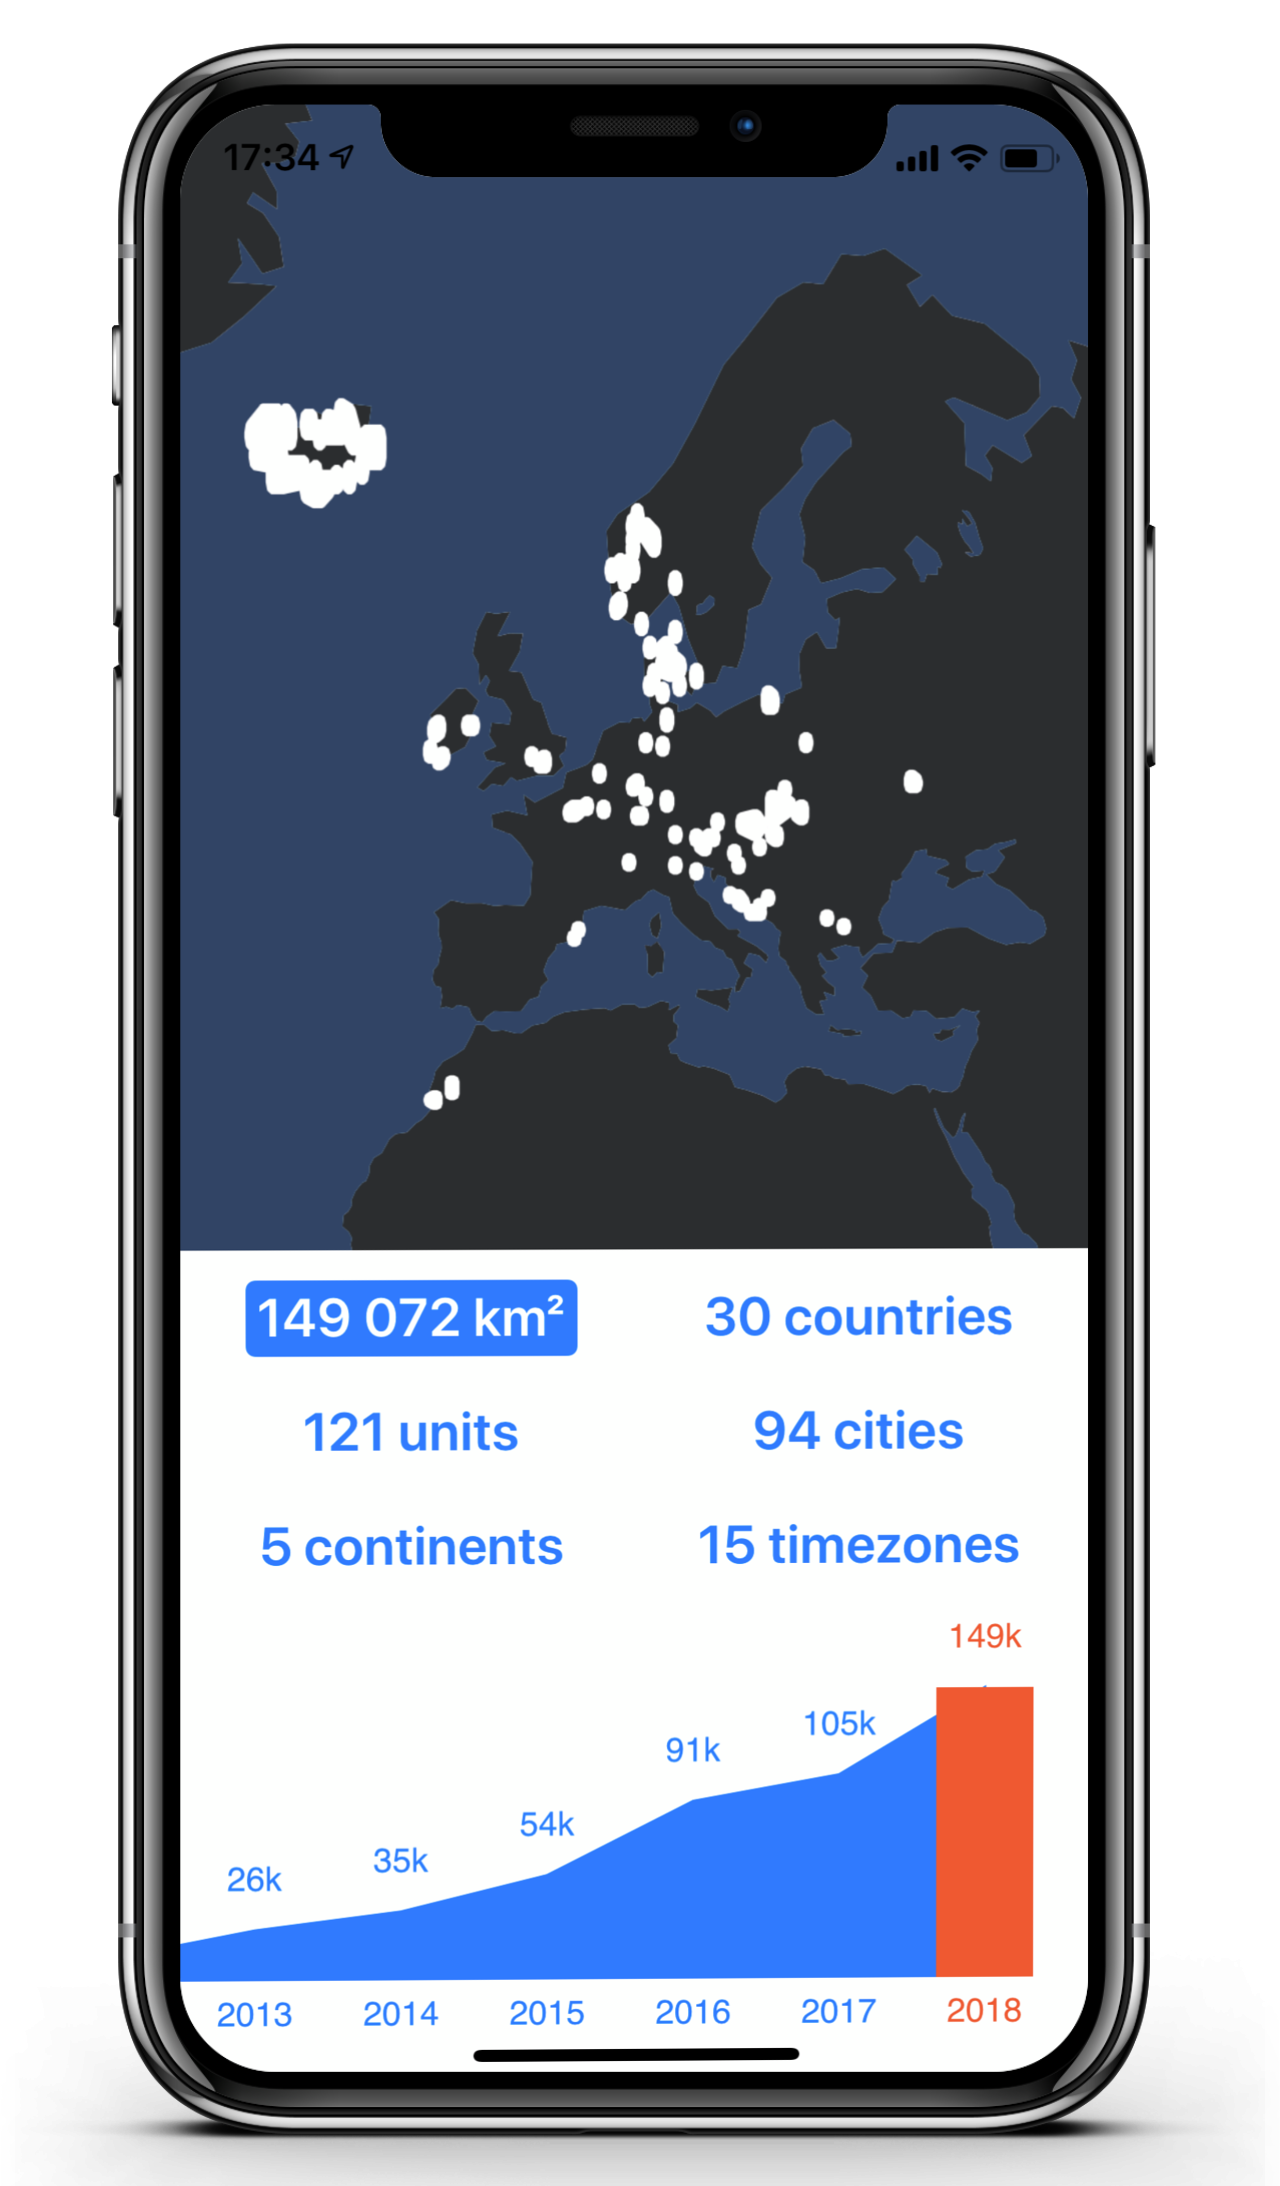
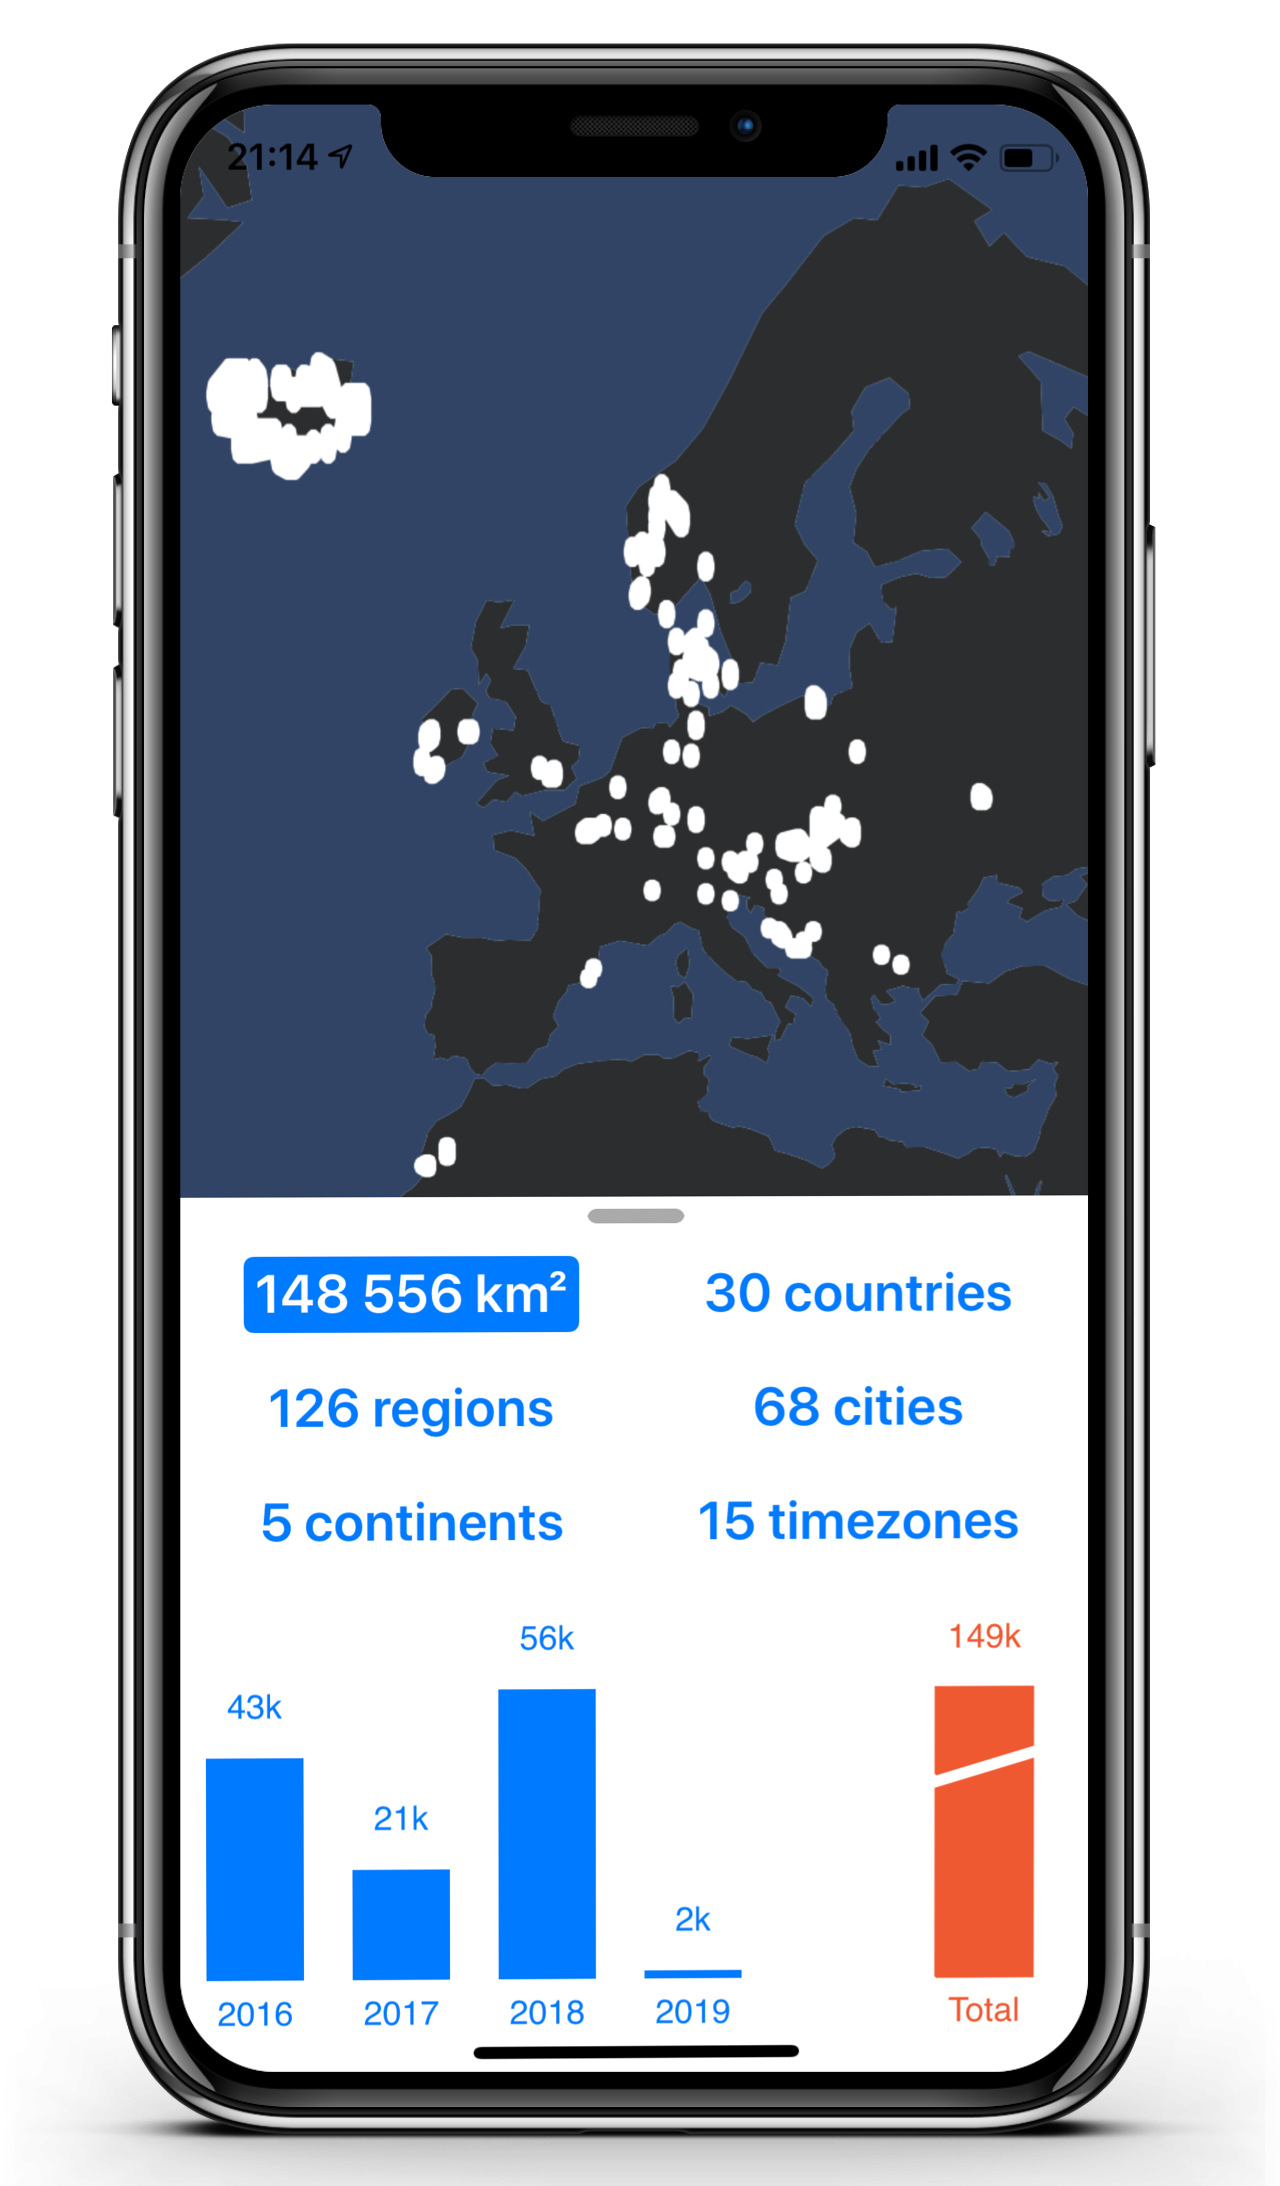
Update screenshots for version 1.1

diff --git a/docs/index.html b/docs/index.html
@@ -27,7 +27,9 @@
         'images/screenshot-area-framed.png',
         'images/screenshot-countries-framed.png',
         'images/screenshot-cities-framed.png',
-        'images/screenshot-timezones-framed.png'
+        'images/screenshot-timezones-framed.png',
+        'images/screenshot-city-stats.png',
+        'images/screenshot-country-log-framed.png',
       ];
 
       setInterval(function() {
